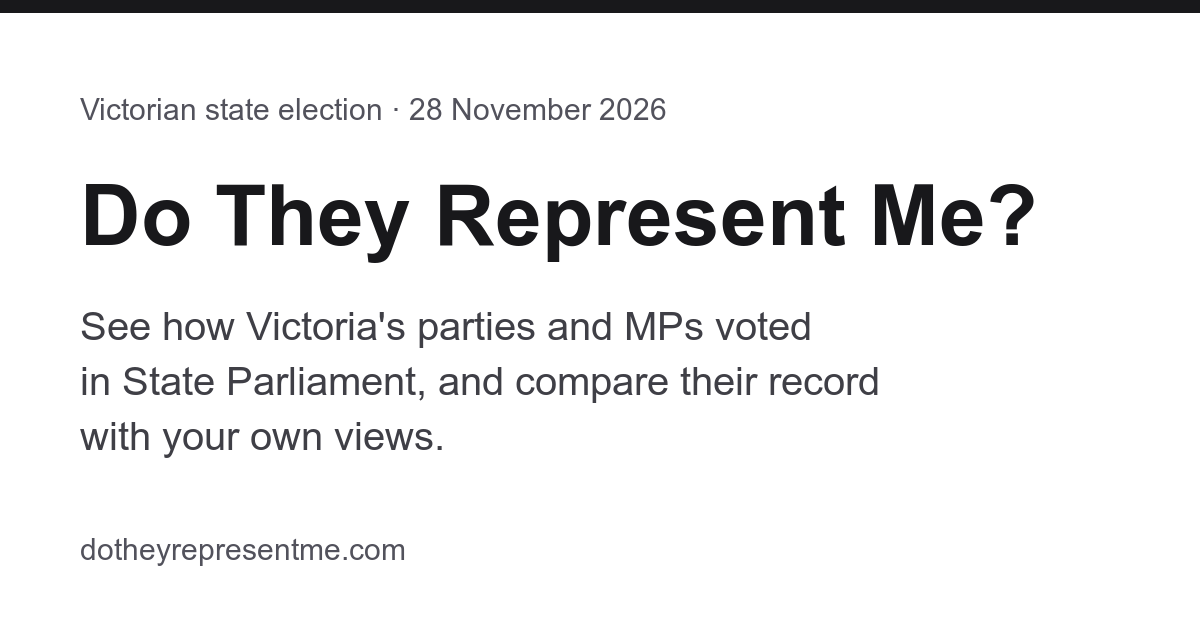
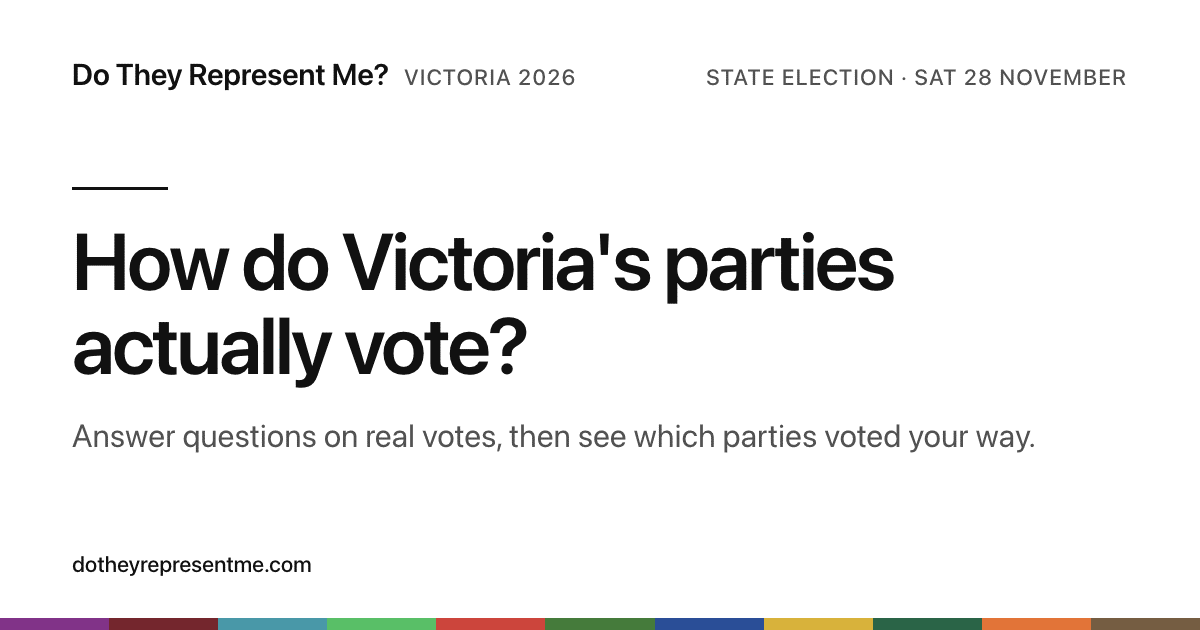
Give each section its own share image, in the Gazette design
The home, questions, district and methodology pages each get a 1200x630
card with the headline, a one-line summary and the all-party stripe. The
images are quantised to 64 colours, so each is under 20 KB.

diff --git a/tests/Feature/PublicPagesTest.php b/tests/Feature/PublicPagesTest.php
@@ -110,3 +110,19 @@ it('drops the prototype notice once a policy is published', function (string $ro
 
     $this->get(route($route))->assertDontSee('Prototype.');
 })->with(['home', 'results']);
+
+it('gives each section its own share image', function (Closure $path, string $image) {
+    $this->get($path())
+        ->assertOk()
+        ->assertSee('<meta property="og:image" content="'.asset("images/{$image}").'">', escape: false);
+
+    expect(public_path("images/{$image}"))->toBeFile();
+})->with([
+    'home' => [fn () => route('home'), 'share.png'],
+    'questions' => [fn () => route('policies.index'), 'share-questions.png'],
+    'a question' => [fn () => route('policies.show', Policy::factory()->published()->create()->slug), 'share-questions.png'],
+    'districts' => [fn () => route('districts.index'), 'share-district.png'],
+    'a district' => [fn () => route('districts.show', Electorate::factory()->create()->slug), 'share-district.png'],
+    'methodology' => [fn () => route('methodology'), 'share-methodology.png'],
+    'about' => [fn () => route('about'), 'share-methodology.png'],
+]);

diff --git a/resources/views/components/layouts/public.blade.php b/resources/views/components/layouts/public.blade.php
@@ -4,6 +4,7 @@
     'canonical' => true,
     'description' => 'See how Victorian parties and MPs actually voted in State Parliament, and compare their record with your own views.',
     'showRecordsDate' => true,
+    'shareImage' => 'images/share.png',
 ])
 
 @php
@@ -46,7 +47,7 @@
         <meta property="og:title" content="{{ $title ?? 'Do They Represent Me?' }}">
         <meta property="og:description" content="{{ $description }}">
         <meta property="og:url" content="{{ url()->current() }}">
-        <meta property="og:image" content="{{ asset('images/share.png') }}">
+        <meta property="og:image" content="{{ asset($shareImage) }}">
         <meta property="og:image:width" content="1200">
         <meta property="og:image:height" content="630">
         <meta property="og:image:alt" content="Do They Represent Me? How Victoria's parties and MPs voted in State Parliament.">

diff --git a/resources/views/districts/show.blade.php b/resources/views/districts/show.blade.php
@@ -5,7 +5,7 @@
     $reportUrl = route('contact', ['topic' => 'correction', 'district' => $district->slug]);
 @endphp
 
-<x-layouts.public :title="$district->name.' District'" :description="'The MLA and MLCs for '.$district->name.' District, and how they voted in the Parliament of Victoria.'">
+<x-layouts.public share-image="images/share-district.png" :title="$district->name.' District'" :description="'The MLA and MLCs for '.$district->name.' District, and how they voted in the Parliament of Victoria.'">
     <div class="mx-auto flex max-w-page flex-col gap-6 px-5 pb-12 pt-5 lg:flex-row lg:items-start lg:gap-24 lg:pb-24 lg:pt-18">
         <div class="flex min-w-0 flex-col gap-6 lg:w-[704px] lg:shrink-0 lg:gap-12">
             <header class="flex flex-col gap-2.5 lg:gap-4">

diff --git a/tests/Feature/SecurityHeadersTest.php b/tests/Feature/SecurityHeadersTest.php
@@ -59,7 +59,7 @@ it('builds links from APP_URL in production, whatever Host header a request send
 it('gives each public page a canonical link and share card, but not previews', function () {
     $this->get(route('methodology'))
         ->assertSee('<link rel="canonical" href="'.route('methodology').'">', escape: false)
-        ->assertSee('<meta property="og:image" content="'.asset('images/share.png').'">', escape: false);
+        ->assertSee('<meta property="og:image" content="'.asset('images/share-methodology.png').'">', escape: false);
 
     $this->get(URL::temporarySignedRoute('preview.quiz', now()->addDay(), absolute: false))
         ->assertDontSee('rel="canonical"', escape: false);

diff --git a/resources/views/about.blade.php b/resources/views/about.blade.php
@@ -15,7 +15,7 @@
     ];
 @endphp
 
-<x-layouts.public title="About and corrections" description="Who runs Do They Represent Me?, where the data comes from, and how to report a mistake.">
+<x-layouts.public share-image="images/share-methodology.png" title="About and corrections" description="Who runs Do They Represent Me?, where the data comes from, and how to report a mistake.">
     <div class="mx-auto flex max-w-page flex-col px-5 pb-12 pt-8 lg:flex-row lg:items-start lg:gap-24 lg:pb-24 lg:pt-18">
         <div class="flex min-w-0 flex-col gap-6 lg:w-[704px] lg:shrink-0 lg:gap-12">
             <x-page-header eyebrow="About" title="A voting record you can check, not a pitch">

diff --git a/resources/views/methodology.blade.php b/resources/views/methodology.blade.php
@@ -27,7 +27,7 @@
     ]);
 @endphp
 
-<x-layouts.public title="Methodology" description="How Do They Represent Me? turns the Parliament of Victoria's voting records into quiz results.">
+<x-layouts.public share-image="images/share-methodology.png" title="Methodology" description="How Do They Represent Me? turns the Parliament of Victoria's voting records into quiz results.">
     <div class="mx-auto flex max-w-page flex-col px-5 pb-12 pt-8 lg:flex-row lg:items-start lg:gap-24 lg:pb-24 lg:pt-18">
         <div class="flex min-w-0 flex-col gap-6 lg:w-[704px] lg:shrink-0 lg:gap-12">
             <x-page-header eyebrow="Methodology" title="How we got the answers">

diff --git a/resources/views/districts/index.blade.php b/resources/views/districts/index.blade.php
@@ -1,6 +1,6 @@
 @php($districtCount = $regions->sum(fn ($region) => $region->districts->count()))
 
-<x-layouts.public title="Districts" description="Find your Victorian state electoral district and see how your MPs voted.">
+<x-layouts.public share-image="images/share-district.png" title="Districts" description="Find your Victorian state electoral district and see how your MPs voted.">
     <div class="mx-auto flex max-w-page flex-col gap-6 px-5 pb-12 pt-5 lg:flex-row lg:items-start lg:gap-24 lg:pb-24 lg:pt-18">
         <div class="flex min-w-0 flex-col gap-6 lg:w-[704px] lg:shrink-0 lg:gap-12">
             <header class="flex flex-col gap-2.5 lg:gap-4">

diff --git a/resources/views/policies/index.blade.php b/resources/views/policies/index.blade.php
@@ -3,7 +3,7 @@
     $chevron = '<svg width="14" height="14" viewBox="0 0 14 14" aria-hidden="true" class="shrink-0 text-ink-muted"><path d="M5 2.5L9.5 7L5 11.5" fill="none" stroke="currentColor" stroke-width="1.5" /></svg>';
 @endphp
 
-<x-layouts.public title="Questions">
+<x-layouts.public share-image="images/share-questions.png" title="Questions">
     <div class="mx-auto flex max-w-page flex-col gap-6 px-5 pb-12 pt-5 lg:flex-row lg:items-start lg:gap-24 lg:pb-24 lg:pt-18">
         <div class="flex min-w-0 flex-col gap-6 lg:w-[704px] lg:shrink-0 lg:gap-12">
             <header class="flex flex-col gap-2.5 lg:gap-4">

diff --git a/resources/views/policies/show.blade.php b/resources/views/policies/show.blade.php
@@ -23,7 +23,7 @@
     $cellClass = 'h-[34px] border-t border-rule text-[13px] leading-4 lg:h-9 lg:text-small lg:leading-[18px]';
 @endphp
 
-<x-layouts.public :title="$policy->title" :noindex="$isPreview" :description="$policy->question">
+<x-layouts.public share-image="images/share-questions.png" :title="$policy->title" :noindex="$isPreview" :description="$policy->question">
     <div class="mx-auto flex max-w-page flex-col gap-6 px-5 pb-12 pt-5 lg:flex-row lg:items-start lg:gap-24 lg:pb-24 lg:pt-18">
         <article class="flex min-w-0 flex-col gap-6 lg:w-[704px] lg:shrink-0 lg:gap-12">
             @if ($isPreview)
